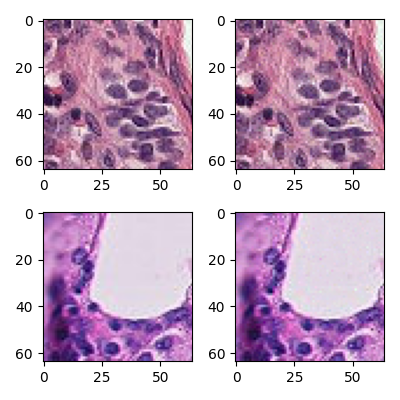
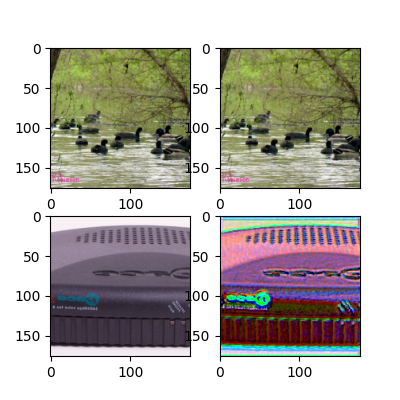
dependencies repaired

diff --git a/run_0.py b/run_0.py
@@ -7,7 +7,7 @@ device = "cuda" if torch.cuda.is_available() else "cpu"
 
 if __name__ == '__main__':
             
-    for experiment in [701]:#
+    for experiment in [0]:#
 
         configname = (f'experiments.configs.config{experiment}')
         config = importlib.import_module(configname)
@@ -49,7 +49,7 @@ if __name__ == '__main__':
                     f"\"{config.noise_patch_scale}\" --generated_ratio={config.generated_ratio} " \
                     f"--n2n_deepaugment={config.n2n_deepaugment} --stylization_first={stylization_first} " \
                     f"--kaggle={kaggle} "
-            if experiment in [0]:
+            if experiment in []:
                 print('skip')
             else:
                 os.system(cmd0)
